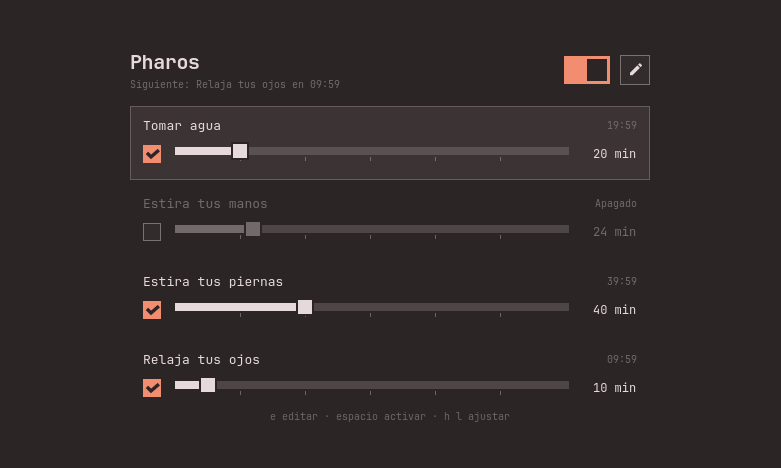
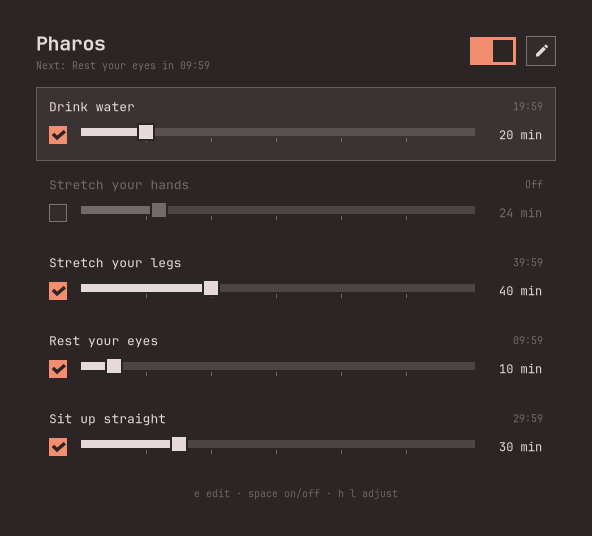
Use less memory, English screenshots, simpler README
- Default to GTK's cairo renderer: 27 MB with the window open instead of 57
- Destroy the window on close and trim the heap, so closing frees it
- Retake the screenshots in English and crop them
- Rewrite the README around using Pharos, with a centered header

diff --git a/src/app.rs b/src/app.rs
@@ -305,8 +305,9 @@ impl Pharos {
     pub fn toggle_window(self: &Rc<Self>) {
         let visible = self.window_visible();
         if visible {
-            if let Some(ui) = self.ui.borrow().as_ref() {
-                ui.window.close();
+            let window = self.ui.borrow().as_ref().map(|ui| ui.window.clone());
+            if let Some(w) = window {
+                w.close();
             }
         } else {
             self.present();
@@ -321,7 +322,6 @@ impl Pharos {
             .default_width(480)
             .default_height(640)
             .decorated(false)
-            .hide_on_close(true)
             .icon_name(paths::APP_ID)
             .build();
         window.add_css_class("pharos");
@@ -419,9 +419,19 @@ impl Pharos {
             glib::ControlFlow::Continue
         });
 
-        // Every map is a new Hyprland window (hiding unmaps it), so tag on
-        // each one.
+        // Every open is a new Hyprland window, so tag on each one.
         window.connect_map(|_| crate::hypr::tag_transparent());
+
+        // Closing destroys the window instead of hiding it: Pharos spends
+        // most of its life in the background, and a hidden window would keep
+        // every widget and render buffer in memory.
+        let this = self.clone();
+        window.connect_close_request(move |_| {
+            this.ui.borrow_mut().take();
+            this.editing.set(false);
+            glib::timeout_add_local_once(Duration::from_millis(500), release_memory);
+            glib::Propagation::Proceed
+        });
 
         let keys = gtk::EventControllerKey::new();
         keys.set_propagation_phase(gtk::PropagationPhase::Capture);
@@ -989,5 +999,17 @@ fn snapshot_to_png(window: &gtk::ApplicationWindow, path: &std::path::Path) {
     let texture = renderer.render_texture(&node, None);
     if let Err(err) = texture.save_to_png(path) {
         eprintln!("pharos: snapshot failed: {err}");
+    }
+}
+
+/// Hands freed heap pages back to the system, so closing the window really
+/// lowers what Pharos uses.
+fn release_memory() {
+    unsafe extern "C" {
+        fn malloc_trim(pad: usize) -> std::ffi::c_int;
+    }
+    // SAFETY: glibc's malloc_trim only releases free memory.
+    unsafe {
+        malloc_trim(0);
     }
 }

diff --git a/src/main.rs b/src/main.rs
@@ -56,6 +56,14 @@ fn main() -> glib::ExitCode {
         Ok(_) => {}
     }
 
+    // Pharos draws a handful of rows: GTK's software renderer handles that
+    // with no visible difference and about a third of the memory of the GPU
+    // renderers. GSK_RENDERER=vulkan pharos still picks another one.
+    if std::env::var_os("GSK_RENDERER").is_none() {
+        // SAFETY: no other threads exist yet.
+        unsafe { std::env::set_var("GSK_RENDERER", "cairo") };
+    }
+
     let app = gtk::Application::builder()
         .application_id(paths::APP_ID)
         .flags(gio::ApplicationFlags::HANDLES_COMMAND_LINE)

diff --git a/README.md b/README.md
@@ -1,35 +1,17 @@
-<img src="docs/icon.png" width="64" alt="">
-
-# Pharos
-
-Gentle break reminders, built for [Omarchy](https://omarchy.org).
-
 <p align="center">
-  <img src="docs/pharos.png" width="390" alt="Pharos in the Vantablack theme, in Spanish">
-  <img src="docs/editing.png" width="390" alt="Pharos's edit view in the Tokyo Night theme">
+  <img src="docs/icon.png" width="96" alt="Pharos icon">
 </p>
 
-Pharos does one thing: **every N minutes it sends you a notification, then the
-clock starts over.** Set *Drink water* to 20 minutes and you're reminded every
-20 minutes, all day.
+<h1 align="center">Pharos</h1>
 
-- **One window.** Each reminder has a checkbox, a slider from 1 to 120 minutes
-  and a live countdown. The switch at the top pauses everything.
-- **The pencil is the settings.** Tap it to rename or delete reminders, add new
-  ones, and choose whether Pharos starts at login.
-- **Native to Omarchy.**
-  - It reads the current theme's `colors.toml` and `shell.toml` (control states,
-    font size, spacing) plus Hyprland's corner rounding and the Omarchy font,
-    and restyles live when you switch themes.
-  - Notifications go through `omarchy notification send`, so they look like
-    every other Omarchy notification, with a **Snooze 5 min** button.
-- **Every Omarchy language.** All 50 languages, following
-  `~/.config/omarchy/language` live, with right-to-left layout for Arabic,
-  Persian, Hebrew and Urdu.
-- **A tray icon in the Omarchy bar.** Left click opens Pharos; right click has
-  Open, Turn on / Turn off and Quit.
-- **Small and quiet.** Rust and GTK4, one process. If the laptop sleeps, the
-  clocks restart quietly instead of firing a backlog.
+<p align="center">
+  Break reminders for <a href="https://omarchy.org">Omarchy</a>.<br>
+  Every N minutes, a notification. Then the clock starts over.
+</p>
+
+<p align="center">
+  <img src="docs/pharos.png" width="420" alt="Pharos with five reminders">
+</p>
 
 ## Install
 
@@ -39,106 +21,130 @@ cd pharos
 makepkg -si
 ```
 
-Or build by hand (needs Rust and `gtk4`), for your user only, no root:
+Open **Pharos** from the launcher. From then on it starts with your session and
+lives in the tray.
 
-```sh
-make install-user      # ~/.local/bin and ~/.local/share
-```
+## Use it
 
-or system-wide with `make build && sudo make install`.
+1. **Pick the minutes.** Drag a reminder's slider (1 to 120 minutes). The
+   countdown on the right starts over each time the notification comes.
+2. **Check what you want.** Unchecked reminders stay quiet. The switch at the
+   top pauses all of them.
+3. **Close the window.** `Super+W` only closes the window. Reminders keep
+   running, and the tray icon brings the window back.
 
-Then open **Pharos** from the launcher. It tiles like any window, with its
-content centered in whatever space it gets. The first run sets Pharos to start at
-login (there's a checkbox to undo that in the pencil view).
+When a notification arrives, click it to snooze that reminder for 5 minutes.
 
-### A key for Pharos (optional)
+### Make your own
 
-To open or hide Pharos with a key, bind `pharos --toggle` in
+Click the pencil to rename or delete reminders, add new ones with
+**+ New reminder**, and choose whether Pharos starts at login.
+
+<p align="center">
+  <img src="docs/editing.png" width="420" alt="Pharos edit view">
+</p>
+
+### Keyboard
+
+| Key           | Action                          |
+| ------------- | ------------------------------- |
+| `j` `k`       | Move between reminders          |
+| `h` `l`       | Fewer / more minutes (Shift: 5) |
+| `Space`       | Turn a reminder on or off       |
+| `t`           | Pause or resume everything      |
+| `e`           | Edit mode                       |
+| `n` `r` `x`   | New, rename, delete             |
+| `Esc`         | Back, or close the window       |
+
+To open Pharos with a key, bind `pharos --toggle` in
 `~/.config/hypr/bindings.lua`.
 
-## Keyboard
+## Light on memory
 
-| Keys                 | Action                                  |
-| -------------------- | --------------------------------------- |
-| `j` `k` / `↓` `↑`    | Move between reminders                  |
-| `h` `l` / `←` `→`    | Adjust minutes (hold Shift for 5)       |
-| `Space` / `Enter`    | Turn the reminder on or off             |
-| `t`                  | Pause or resume all reminders           |
-| `e`                  | Edit mode (the pencil)                  |
-| `n`                  | New reminder                            |
-| `r` / `F2`           | Rename (edit mode)                      |
-| `x` / `Delete`       | Delete (edit mode)                      |
-| `Esc`                | Leave a field, leave edit mode, or hide |
+Pharos is a single Rust process, and it frees its window when you close it.
 
-Closing the window (`Super+W`, or `Esc`) only hides it: the reminders keep
-running in the background.
+| State                        | RAM (PSS) |
+| ---------------------------- | --------- |
+| In the background            | ~18 MB    |
+| Window open                  | ~27 MB    |
 
-## Command line
+Measured on Omarchy with `/proc/<pid>/smaps_rollup`. Your numbers vary a little
+with the theme and font.
+
+## Fits in Omarchy
+
+- **Theme.** Colors, font, spacing and corner rounding come from the current
+  Omarchy theme and change live when you switch themes.
+- **Language.** All 50 Omarchy languages, following Omarchy's language setting.
+  Built-in reminders switch language with it until you rename them.
+- **Window.** Tiles like any window and follows Omarchy's window transparency
+  (opaque, see-through or glassy).
+- **Notifications.** Sent with `omarchy notification send`, so they look like
+  every other Omarchy notification.
+- **Sleep.** After the laptop sleeps, the clocks start over quietly instead of
+  firing everything at once.
+
+<details>
+<summary><b>Command line</b></summary>
 
 ```text
-pharos                 open the window (starts Pharos if needed)
-pharos --background    start without a window (used at login)
-pharos --toggle        show or hide the window
-pharos --snooze <id>   push a reminder 5 minutes out
+pharos                   open the window (starts Pharos if needed)
+pharos --background      start without a window
+pharos --toggle          show or hide the window
+pharos --snooze <id>     push a reminder 5 minutes out
 pharos --autostart on|off
 ```
 
-## Configuration
+</details>
 
-Reminders live in `~/.config/pharos/config.toml`:
+<details>
+<summary><b>Config file</b></summary>
+
+Pharos saves everything to `~/.config/pharos/config.toml`. You don't need to
+edit it, but you can:
 
 ```toml
 enabled = true
 
 [[reminder]]
 id = 1
-preset = "water"     # a built-in reminder: its name follows Omarchy's language
+preset = "water"       # built in: the name follows Omarchy's language
 minutes = 20
 enabled = true
 
 [[reminder]]
 id = 6
-name = "Feed the cat" # your own name: never translated or overwritten
+name = "Feed the cat"  # your own name: never translated
 minutes = 90
 enabled = true
 ```
 
-The built-in reminders are created once, in your language. If you change
-Omarchy's language later, the ones you haven't renamed switch with it; the
-ones you renamed keep your text. Changing the minutes doesn't count as a rename.
-
-### Transparency
-
-Like Flea, Pharos opts its window in to Omarchy's window transparency, so it
-follows **Window Transparency** in the Omarchy menu: see-through by default,
-solid when *opaque*, frosted blur when *glassy*. `Super+Backspace` toggles it
-for the window.
-
-For a see-through background on top of that, give Pharos its own alpha in a
-theme's `shell.toml`, or in `~/.config/omarchy/shell.toml` for every theme:
+For a see-through background, set an alpha in `~/.config/omarchy/shell.toml`
+(or in a theme's `shell.toml`):
 
 ```toml
 [pharos]
 background-alpha = 0.85
 ```
 
-## Tests
+</details>
+
+<details>
+<summary><b>Build from source</b></summary>
+
+Needs Rust and `gtk4`.
 
 ```sh
-cargo test                 # unit tests and the command line, in a second
-cargo test -- --ignored    # end to end: starts Pharos with a 1-minute
-                           # reminder and waits for the notification
+make install-user              # ~/.local, no root
+make build && sudo make install
+cargo test                     # unit and command line tests
+cargo test -- --ignored        # end to end: waits for a real notification
 ```
 
-The unit tests cover the interval clock (every N minutes, then it starts
-over; pausing, snoozing, sleep), the config file, the language rules for
-built-in and renamed reminders, all 50 languages, the theme and the tray menu.
+Translations live in [`i18n/`](i18n), one file per language. Corrections from
+native speakers are welcome.
 
-## Translations
-
-Strings live in [`i18n/`](i18n), one TOML file per Omarchy language code.
-`cargo test` checks that every language has every string and keeps its
-`{placeholders}`. Corrections from native speakers are very welcome.
+</details>
 
 ## License
 
